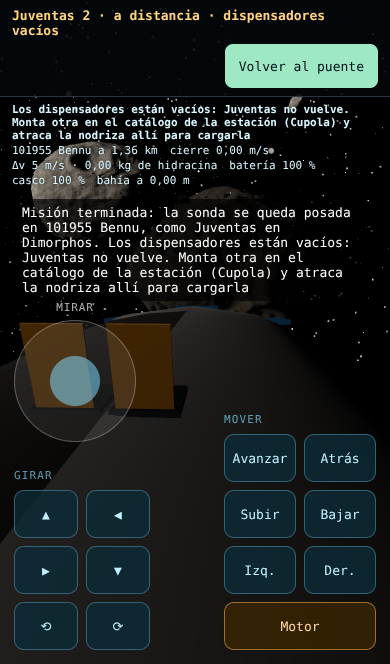
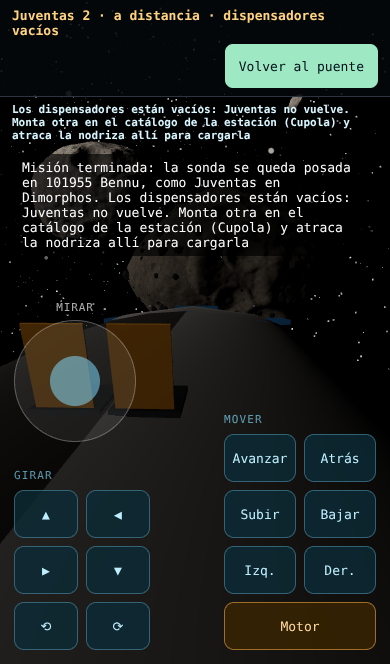
Docs and QA: deployer release, nearby destinations, dock switch, Manual/Automático (SON-08/09, NAV-30/31, VUE-20, HAB-50, PX-41)
Claude-Session: https://claude.ai/code/session_013f2k3BKu3GvWho9ZkdeNDk

Changed region(s): [[0.0308, 0.2108, 0.8923, 0.4518]]

diff --git a/src/probe-mode.ts b/src/probe-mode.ts
@@ -18,6 +18,8 @@ export const EMPTY_DEPLOYERS = "Los dispensadores están vacíos: Juventas no vu
 const fmt = (v: number, d = 2) => v.toFixed(d).replace(".", ",");
 const dist = (m: number) => (m >= 1000 ? `${fmt(m / 1000, 2)} km` : `${fmt(m, m < 10 ? 2 : 0)} m`);
 const WARPS = [1, 10, 100] as const;
+/** Closer than this to its deployer the console's camera looks at the deployer on the hull, m. */
+const DEPLOYER_VIEW_M = 3;
 /** The landing side view keeps the drop from the probe to its site this much smaller than the strip it shows in. */
 const LANDING_VIEW_MARGIN = 1.5;
 
@@ -317,6 +319,21 @@ export class ProbeMode {
     const st = this.lookStick.value;
     this.turn(-curve(st.x) * 2.0 * dt, -curve(st.y) * 1.4 * dt);
     if (this.plan && this.frameLanding(s.position, s.toWorld(Vec3.Y))) {
+      this.render(warp, warpNote);
+      if (performance.now() > this.msgUntil) this.msg.classList.remove("on");
+      return;
+    }
+    // In its deployer and just out of it: a camera over the deployer on the carrier's hull, so the door, the
+    // slide out and the release are seen (Berón: «nunca las veo salir de la nodriza»). The look still orbits it.
+    if (p.status === "estibada" || (p.status === "en-vuelo" && p.bayRange().distanceM < DEPLOYER_VIEW_M)) {
+      const dep = p.deployerPose();
+      const up = dep.toWorld(Vec3.Y);
+      const off = new THREE.Vector3(0.9, 1.6, 1.5).applyEuler(new THREE.Euler(-this.orbit.pitch * 0.5, this.orbit.yaw, 0, "YXZ"));
+      const eye = dep.position.add(dep.toWorld(new Vec3(off.x, off.y, off.z)));
+      const at = dep.position.add(up.scale(0.35));
+      this.camera.position.set(eye.x, eye.y, eye.z);
+      this.camera.up.set(up.x, up.y, up.z);
+      this.camera.lookAt(at.x, at.y, at.z);
       this.render(warp, warpNote);
       if (performance.now() > this.msgUntil) this.msg.classList.remove("on");
       return;

diff --git a/src/modules/subjugation/application/probe-ops.test.ts b/src/modules/subjugation/application/probe-ops.test.ts
@@ -79,7 +79,7 @@ describe("ProbeOps", () => {
     expect(ops.drainEvents().map((e) => e.type)).toEqual(["desplegando", "lanzada", "posada"]);
   });
 
-  it("JUV-01 the deployer releases it at 3 cm/s from the carrier's hull, after its door opens and it slides out", () => {
+  it("SON-08 the deployer releases it at 3 cm/s from the carrier's hull, after its door opens and it slides out", () => {
     const { ops } = setup(400);
     const start = ops.flight.state.position;
     expect(PROBE_TUNING.releaseMs).toBe(0.03);
@@ -92,7 +92,7 @@ describe("ProbeOps", () => {
     expect(ops.drainEvents().map((e) => e.type)).toEqual(["desplegando", "lanzada"]);
   });
 
-  it("JUV-02 a parked probe's mission ends there (it never comes back); the next deployer takes over, and an empty one is refilled only by loading a new one", () => {
+  it("SON-09 a parked probe's mission ends there (it never comes back); the next deployer takes over, and an empty one is refilled only by loading a new one", () => {
     const { ops } = setup();
     release(ops, DOWN);
     fly(ops, 90);

diff --git a/src/modules/lander-cabin/domain/cabin.test.ts b/src/modules/lander-cabin/domain/cabin.test.ts
@@ -53,7 +53,7 @@ describe("lander crew cabin (docs/design/habitaculo.md)", () => {
     expect(ids("asiento", { ...base, dockInRange: true })).toEqual(["pilotar"]);
   });
 
-  it("HAB-32 the commander's station offers Manual and Automático; Automático lists only the nearby destinations", () => {
+  it("HAB-50 the commander's station offers Manual and Automático; Automático lists only the nearby destinations", () => {
     const destinations = [
       { id: "101955-bennu", label: "101955 Bennu", enabled: true },
       { id: "estacion", label: "Estación", enabled: false, why: "Ya estás acoplada a Estación" },

diff --git a/src/modules/subjugation/application/probe-ops.ts b/src/modules/subjugation/application/probe-ops.ts
@@ -161,6 +161,11 @@ export class ProbeOps {
     if (this._status !== "posada") return undefined;
     return (this._flight.target as { data?: { id: string } } | undefined)?.data?.id;
   }
+  /** Pose of the current probe's deployer on the carrier now (+y out of the hull). */
+  deployerPose(): RigidBodyState {
+    return this.bay(this.cur);
+  }
+
   /** Distance and relative speed to the bay. */
   bayRange(): { distanceM: number; speedMs: number } {
     const b = this.bay(this.cur);

diff --git a/docs/qa/casos.md b/docs/qa/casos.md
@@ -64,6 +64,7 @@ Columna QA: cómo se comprueba jugando, o «Solo test» si no tiene sentido hace
 | VUE-09 | El ordenador de descenso posa el módulo en su sitio dentro de los límites; un fallo lo posa fuera del centro, dos rebotan sin daño (se reprograma), tres no cargan; tocar los mandos devuelve el control; la oferta solo aparece en la zona de aproximación (< 450 m) | `landing-program.test.ts` | PX-09: el módulo se posa por programa |
 | VUE-10 | El módulo de aterrizaje es el módulo lunar Apolo: 4280 kg en seco, DPS de 45 kN regulable al 10 %, APS a bordo sin encender, 16 toberas de 440 N en cuatro quads, propelente en un solo depósito (licencia) y adaptador IDSS (licencia); cada número con fuente y etiqueta | `apollo-lm.test.ts` | PX-31 |
 | VUE-11 | El piloto automático vuela el LM con el motor de descenso: gira la panza hacia donde frena y llega al asteroide y al puerto de acople | `autopilot.test.ts`, `dock-trip.test.ts` | PX-31 |
+| VUE-20 | El acople del LM es un interruptor de icono bajo el ojo de la vista de vuelo (Berón, 2026-11-17): sale solo acoplado («Desacoplar», icono de anillos separándose) o libre dentro de la esfera de 200 m de un puerto («Acoplar», icono de anillos juntos: el asistente lo lleva al contacto; «Acoplando: tocar para parar»); el icono es siempre lo contrario del estado. El icono raíz que solo plegaba «Centrar la vista» desaparece (centrar: doble toque en «Mirar» o V) | `main.ts`, `flight-view.ts` (adaptadores) | PX-41 |
 
 ### Navegación, mapa y viajes comprimidos (NAV)
 
@@ -87,18 +88,22 @@ Columna QA: cómo se comprueba jugando, o «Solo test» si no tiene sentido hace
 | NAV-16 | La nodriza también se pilota a mano (reglas.md §3.6): en la tarjeta del destino, junto a «Programar viaje» (retos), «Pilotar a mano»; desde la cubierta de vuelo, encendidos cortos de ±0,1 m/s (hasta 1 m/s) y «Parar», con la distancia que falta, la velocidad y el Δv gastado; parada a menos de 100 m del punto de espera junto a una estación, el ordenador hace el atraque como la Demo-1; lejos de una estación queda aparcada. Los mandos de la Starship van marcados «en desarrollo» (SpaceX no los ha publicado) | `dock-trip.test.ts` | PX-36 |
 | NAV-17 | Los viajes siguen solos y se ven solo en la consola de ese vehículo (reglas.md §3.8): el chip del viaje, «Ver trayecto», «Mando»/«Parar» y el aviso de llegada salen en la cubierta de vuelo (nodriza), la consola de la sonda (sonda) o la cabina del LM (módulo); fuera de ella no salen y el viaje sigue; el aviso que llegó estando fuera se ve al volver. Cerrar «Ver trayecto» devuelve siempre la pantalla y sus botones (no se queda atrapada) | `main.ts`, `navigation.ts`, `probe-mode.ts` (adaptadores) | PX-07, PX-16, PX-36 |
 | NAV-18 | El aterrizaje automático dice adónde va (reglas.md §3.9): al cargar el programa, «baja sola al sitio marcado (el anillo) en X, a N m y unos T… Para posar…»; la ficha del viaje dice «sitio de aterrizaje en X», la distancia al sitio, la altura y el tiempo que falta; la vista lateral del descenso se gira con el palo y arrastrando. El antiguo «Aterrizaje: auto» solo nivelaba la panza: ahora se llama «Nivelar sola» y lo dice | `landing.ts`, `probe-mode.ts` (adaptadores) | PX-07 |
+| NAV-30 | Destinos cercanos (Berón, 2026-11-17: «los viajes largos los hace la nodriza»): el LM y Juventas solo vuelan solos dentro del vecindario de la nodriza (su distancia de aparcamiento más la de entrega, 1,65 km): el asteroide junto al que está aparcada, las estructuras de allí y la propia nodriza; lo demás es un viaje de la nodriza desde su puente | `nearby.test.ts` | PX-41 |
+| NAV-31 | «Automático» del LM: el reto del viaje es el del propio módulo (nunca lo lleva la nodriza); resuelto, se desacopla y su piloto automático lo lleva | `navigator.test.ts` | PX-41 |
 
 ### Sonda (SON)
 
 | ID | Qué tiene que pasar | Test / fixture | QA |
 |---|---|---|---|
 | SON-01 | La sonda es una nave real (~17 kg, Δv de decenas de m/s); sale estibada, se lanza con los muelles y se posa | `probe-ops.test.ts` | Jugar: consola de la sonda en el puente |
-| SON-02 | El brazo solo la agarra lenta y cerca de la bahía; vuelve cargada | `probe-ops.test.ts`, `probe-trip.test.ts` | Jugar: volver a la nodriza |
-| SON-03 | Se pierde por escombros, radiación o batería (~15 h); la siguiente ocupa su sitio; la estación repone el bastidor | `probe-ops.test.ts` | Solo test |
+| SON-02 | El brazo solo la agarra lenta y cerca de la bahía; vuelve cargada (solo la nave de ficción: la Juventas real no vuelve, SON-09) | `probe-ops.test.ts`, `probe-trip.test.ts` | Jugar: volver a la nodriza |
+| SON-03 | Se pierde por escombros, radiación o batería (~15 h); la siguiente ocupa su sitio; la estación repone el bastidor (nave de ficción; en la real, cargando una montada en el catálogo, SON-09) | `probe-ops.test.ts` | Solo test |
 | SON-04 | Viaje largo de la sonda: retos, vuela sola en cámara rápida y espera a ~300 m (posarla es manual); tocar los mandos devuelve el control | `probe-trip.test.ts` | Jugar: Programar viaje a… |
 | SON-05 | La sonda aterriza por programa en Bennu dentro de su sitio de 1,5 m (Juventas no tiene anclas: toca a 2 cm/s, rebota y se asienta), con un fallo también | `landing-program.test.ts` | PX-07 |
 | SON-06 | La sonda es Juventas (ESA, Hera): 12 kg, 6U-XL, ocho propulsores de gas frío de 1 mN y 50 s, ruedas de reacción que no gastan gas, JuRa y GRASS; Δv de unos 5 m/s, así que sus viajes duran horas en cámara rápida | `probe-ops.test.ts`, `probe-trip.test.ts` | PX-07, PX-31 |
 | SON-07 | Sin anclas: Juventas toca a centímetros por segundo, rebota unas veces y se asienta; la pantalla de aterrizaje dice los rebotes | `settling.test.ts` | PX-07 |
+| SON-08 | Juventas sale de verdad de la nodriza: va en un Deep Space Deployer (ISISPACE, como en Hera) bajo la piel del casco de la Starship, encima del puerto del LM; al soltarla se abre la puerta, sale hasta el borde y los muelles la empujan a 3 cm/s; empieza siempre en la nodriza, también después de que la nodriza haya viajado (antes quedaba a 70 m fijos, la bahía de la nave de anillos) | `probe-ops.test.ts`, `probe-trip.test.ts` | PX-41, PX-07 |
+| SON-09 | Juventas no vuelve: su misión acaba posada (como en Dimorphos) con «Terminar su misión»; la siguiente espera en su dispensador; con los dispensadores vacíos la consola y el mando lo dicen y solo se rellenan cargando una Juventas montada en el catálogo de la estación con la Starship atracada allí. «Recuperar con el brazo» y «Programar vuelta» quedan solo en la nave de ficción | `probe-ops.test.ts` | PX-41 |
 
 ### Subyugación en tres fases y duelos (SUB)
 
@@ -338,6 +343,7 @@ Diseño en [habitaculo.md](../design/habitaculo.md).
 | HAB-38 | La bahía enseña la Starship y la estación a escala real, encuadradas por su tamaño; rueda y pellizco acercan y alejan (12 %–250 % de esa distancia); el LM se ve como antes | `ship-bay-scene.ts` (adaptador) | PX-36: capturas 8 y 9 |
 | HAB-39 | Una tarea en otro vehículo nunca hace volar una nave (reglas.md §3.5): «Ir» la lleva andando hasta donde se pilota el vuelo (la mesa de navegación del puente, o el puesto del comandante del LM) y para allí con el aviso «Para «X» primero hay que viajar a la estación: en la mesa de navegación, «Programar viaje» (retos) o «Pilotar a mano»»; ya en ese puesto, solo sale el aviso | `journey.test.ts` | PX-16, PX-36 |
 | HAB-40 | Los ajustes de la esterilla dicen la versión del juego (hash corto del commit y su fecha, de `vite.config.ts`), en el LM, la Starship y la estación; ella está sentada en loto sobre la esterilla (en la Starship y la estación, orientada a su pared, con los pies en los lazos) en la vista panel y en la HUD | `vite.config.ts`, `settings-panel.ts` (adaptadores) | Jugar: recorrido PX `equipos` |
+| HAB-50 | El puesto del comandante del LM y el mando de la sonda ofrecen «Manual» y «Automático» (reglas.md §3.6); «Automático» lista solo los destinos cercanos (NAV-30), cada uno apagado con su porqué si ahora no puede, y abre el reto del viaje | `cabin.test.ts` | PX-41 |
 
 ### Convivencia de procesos (CV)
 
@@ -423,6 +429,7 @@ fila del recorrido en [registro.md](registro.md).
 | PX-37 | `pendientes` | Hallazgos de Berón del 2026-11-17. En el LM, la esterilla abre los ajustes y en vista HUD se ven. En la Starship, el mando «Mirar» gira la cámara y nada lo tapa; en la esterilla de la cubierta 1 los ajustes se ven en vista HUD con ella sentada en loto a la vista; en la cocina, el primer paso de una comida de la ISS se ve con el envase en la mano. En la cubierta de vuelo, el «Mirar» de la sonda gira la cámara alrededor de ella. En la estación, «Mirar» gira la cámara; la esterilla está en Destiny y sus ajustes se ven en HUD con ella sentada. El reto de Planos (pieza impresa) y el duelo de la mente ofrecen «Vista HUD» y «Vista panel». Sin botones solapados. Capturas `docs/screenshots/pendientes-<pantalla>-movil.png` | iPhone 13, CPU ×1 |
 | PX-38 | `equipos` | En el LM, la esterilla abre los ajustes en vista panel y HUD, con ella sentada en loto y la versión. En la Starship, la T2, la CEVIS y el ARED ofrecen cada uno su entrenamiento y, al abrirlo, ella corre, pedalea o hace sentadillas (su propia animación, en marcha). En la esterilla de la cubierta 1, ajustes en las dos vistas sentada sobre ella; el yoga se hace sobre la esterilla. Con 6 medakas y 4 caracoles, el AQH los muestra y limpiar el cristal se ve en él; el AQH de la estación sigue vacío hasta que «Trasladar» (un reto por paso) se los lleva. El simulacro de tormenta solar en el refugio de agua, «Asearse» en el WHC y el chequeo con el CHeCS son retos con cada paso animado. En la estación, lo mismo con sus T2, ARED y CEVIS, su esterilla de Destiny, el AQH de Kibo (la colonia trasladada, sus tareas y su animación), «Asearse» en el WHC de Tranquility, el simulacro en su camarote de Harmony y el desfibrilador del CHeCS de Columbus. Paridad: cada instalación compartida tiene acción en su tarjeta y su modelo real, y los mismos bastidores en las dos. Sin botones solapados. Capturas `docs/screenshots/equipos-*-movil.png` y hojas `equipos-hoja-*.png` | iPhone 13, CPU ×1 |
 | PX-39 | `brazo-eva` | En la ISS, con toques: en la cocina de Unity se pide un Cygnus; tras el tránsito (preparado) espera en el punto de captura. El RWS de la Cupola ofrece capturarlo por reto y a mano. Por reto, en «paso a paso»: al empezar se ven sus manos en los mandos; cada bloque mueve el brazo fuera (o apaga los propulsores) y se audita en vivo: se ve sobre la hoja y nada atraviesa la estación. El Cygnus queda atracado y la despensa sube. Otro Cygnus se captura a mano con el THC (mantener las direcciones) y «Disparar». En el portátil de carga, cambiar las alas planea un paseo. En los trajes de Quest, el reto del EMU (pasos animados) y el ISLE (preparado); despresurizar; salir: solo la escena y el HUD del EMU; avanzar manteniendo pulsado, enganchar el cable en el anclaje de S1, pies en el APFR, el reto del trabajo auditado, volver, entrar, represurizar (preparado) y quitarse el traje. La radiación quema la cámara de P1 (preparado) y Dextre la cambia desde el RWS, auditado. Sin botones solapados. Filas en `docs/qa/animaciones-brazo.md`; capturas `docs/screenshots/brazo-*` | iPhone 13, CPU ×1 |
+| PX-41 | `mandos` | En un iPhone 13: acoplado, bajo el ojo está «Desacoplar» y no hay icono raíz ni «Centrar la vista»; el puesto del comandante ofrece «Manual» y «Automático»; «Automático» lista solo la estación y Bennu (ningún asteroide lejano) y Bennu abre el reto; resuelto, el LM se desacopla y vuela solo. Cerca del puerto el interruptor dice «Acoplar», el asistente lo lleva y el mismo interruptor desacopla. En la cubierta de vuelo, Juventas está bajo la piel del casco (también tras moverse la Starship 4 km), el mando de la sonda ofrece lo mismo, su «Automático» solo Bennu; la puerta del dispensador se abre a ×1 con su aviso, la sonda sale y se suelta a 3 cm/s; posada se termina su misión, sale la siguiente y, vacíos, la consola y el mando lo dicen. Capturas `docs/screenshots/mandos-*-movil.png` | iPhone 13, CPU ×1 |
 | PX-27 | `catalogo` | Partida nueva: ni gatos, ni perros, ni gallinas, ni peces ni caracoles; el estado dice «sin peces (adóptalos en el catálogo)» y no hay tareas de cuidar animales. Tareas → «Catálogo de especies»: más de 50 fichas, cabe a lo ancho; filtro Caracoles con Biomphalaria y nerita. La nerita (sin vuelo, limpiacristales, no cría en agua dulce, Aporta y Precauciones por separado, con fuente) sale «Pendiente: nunca ha vivido en ingravidez» y sin botón; la Biomphalaria (ha volado, esquistosoma, solo líneas de laboratorio) cabe en el hábitat acuático, tipo Aquatic Habitat de JAXA, con su fuente. «Adoptar» Biomphalaria y medaka (filtro por hábitat: medaka y pez cebra, no la tilapia ni el pez ciego): «En camino · 24,8 h». Mascotas: el ratón «Disponible»; gatos y perros «Pendiente». Pasa el viaje: 8 medakas y 4 caracoles en el tanque y en 3D. Dar de comer, amistad con las medakas y con los caracoles: «medakas amigas · caracoles amigos». Junto al terminal, «Catálogo de especies»: los caracoles «A bordo · 4». Un día de a bordo: hambre 2 veces y cada comida medio día; aviso «tiene hambre». Capturas `docs/screenshots/catalogo-*-movil.png`. | iPhone 13, CPU ×4 |
 | PX-28 | `starship` | Partida nueva con el interruptor «solo real»: la nodriza es una Starship sin anillo, animales ni huerto, con metano y oxígeno y ~10 km/s de Δv. Del habitáculo, «Entrar en la nave de viaje» lleva a la cubierta 3 (letrero con la cubierta y 0 g). Tareas → «Ir» a una comida de la ISS: la cocina de la cubierta 1 con su reto; «Ir» a la cinta: la T2 de la cubierta 3. En el terminal del catálogo de la cubierta 2 se adoptan medakas para el hábitat acuático; llegan y se ven en el hábitat de la cubierta 3, que ofrece cuidarlas. Junto a la escotilla del techo de la cubierta 1, «Subir a la cubierta de vuelo» abre el puente; su página de propulsión dice Raptor de vacío y metano y oxígeno; la mesa de navegación programa un viaje que acelera, va por inercia y frena. Con cada reto abierto solo se ve la hoja; en ninguna pantalla aparece el anillo, el huerto, animales ni xenón; sin botones solapados. Capturas `docs/screenshots/starship-*-movil.png`. | iPhone 13, CPU ×1 |
 | PX-29 | `estacion-iss` | La ISS con toques: recorrido por sus escotillas, cada una con «Entrar en <módulo>» (Harmony y sus camarotes, que son cuartos, Destiny y la AMF, Unity, Tranquility y los bastidores de agua, Columbus y la impresora, Kibo, su esclusa a la JEM-EF (escotilla sin menú) y la consola del JEMRMS con el Hangar, Quest y los trajes), una captura por módulo; en Kibo, el hábitat acuático (AQH) y el portátil que abre el catálogo de especies. Dentro de la Bishop, su placa ofrece «Sujetar Juventas»; desde el puesto robótico de la Cupola, «Soltar Juventas»: Juventas queda fuera y la vista de la Cupola enseña el brazo sacando la Bishop y la carga alejándose; la Bishop vuelve. En la Cupola el brazo atraca el módulo en el CBM de Unity y lo devuelve. Cada trabajo del brazo (soltar con la Bishop, atracar, devolver) es un reto del RWS que se juega con el brazo moviéndose fuera (PX-39 audita cada paso). La cocina de Unity hace un plato. Sin botones solapados. Capturas `docs/screenshots/iss-*-movil.png`. | iPhone 13, CPU ×1 |

diff --git a/docs/qa/runs/2026-11-17-1805-PX-41.md b/docs/qa/runs/2026-11-17-1805-PX-41.md
@@ -1,0 +1,69 @@
+# Experiencia del jugador · 2026-11-17 18:05 UTC
+
+- Commit: `59fb110 (con cambios sin commit)` (modulo-sonda-mandos)
+- Entorno: iPhone 13 de Playwright (pantalla 390×844, 390×664 visibles), CPU ×4 (botones: ×1); GPU ANGLE (Google, Vulkan 1.3.0 (SwiftShader Device (Subzero) (0x0000C0DE)), SwiftShader driver); local
+
+| ID | Recorrido | Veredicto | Comprobaciones | Presupuestos |
+|---|---|---|---|---|
+| PX-41 | Mandos del LM y de Juventas en un iPhone 13: en la vista de vuelo, el interruptor de acople bajo el ojo solo en un puerto, con el icono de lo contrario del estado, y ningún icono sin explicar; el puesto del comandante ofrece «Manual» y «Automático», que lista solo destinos cercanos a la nodriza y abre el reto del viaje; en la cubierta de vuelo de la Starship, el mando de la sonda igual; Juventas en su dispensador del casco (también tras viajar la nodriza), la puerta se abre, sale y los muelles la sueltan a 3 cm/s; su misión acaba posada, sin vuelta, y los dispensadores vacíos lo dicen | OK | 29/29 | ✓ |
+
+## PX-41 · Mandos del LM y de Juventas en un iPhone 13: en la vista de vuelo, el interruptor de acople bajo el ojo solo en un puerto, con el icono de lo contrario del estado, y ningún icono sin explicar; el puesto del comandante ofrece «Manual» y «Automático», que lista solo destinos cercanos a la nodriza y abre el reto del viaje; en la cubierta de vuelo de la Starship, el mando de la sonda igual; Juventas en su dispensador del casco (también tras viajar la nodriza), la puerta se abre, sale y los muelles la sueltan a 3 cm/s; su misión acaba posada, sin vuelta, y los dispensadores vacíos lo dicen
+
+- ✓ acoplado, bajo el ojo está el interruptor «Desacoplar» (el icono de lo contrario del estado) — [{"cls":"rm-icon cam-btn","label":"Cámara: Cabina · 1ª persona","y":10},{"cls":"rm-icon dock-btn","label":"Desacoplar de la nodriza","y":62},{"cls":"rm-icon stand-btn","label":"Dejar el puesto: habitáculo","y":114}]
+- ✓ ningún icono sin explicar: la raíz no sale (no queda nada plegado dentro) y no hay «Centrar la vista» — [{"cls":"rm-icon cam-btn","label":"Cámara: Cabina · 1ª persona","y":10},{"cls":"rm-icon dock-btn","label":"Desacoplar de la nodriza","y":62},{"cls":"rm-icon stand-btn","label":"Dejar el puesto: habitáculo","y":114}]
+- ✓ Vista de vuelo acoplada con el interruptor de acople: ningún botón ni rótulo se solapa con otro
+- · (preparación) (preparación) camina hasta «asiento» (la máquina no se ve en pantalla)
+- ✓ el puesto del comandante ofrece «Manual» y «Automático» (sin «Desacoplar»: es el interruptor del vuelo) — [{"id":"pilotar","label":"Manual","on":true},{"id":"automatico","label":"Automático","on":true}]
+- ✓ «Automático» lista solo destinos cercanos a la nodriza (ningún asteroide lejano: esos viajes son de la nodriza) — estacion-polana, 101955-bennu · lejos: 242916, 58587, 265900, 236201, 417464, 2009uf113, 67p, 46p, 133p
+- ✓ Destinos cercanos del «Automático» del LM: ningún botón ni rótulo se solapa con otro
+- ✓ con el reto abierto solo se ven la hoja, la escena y el paso («Programar el viaje a 101955 Bennu»)
+- ✓ Reto del viaje automático del LM: ningún botón ni rótulo se solapa con otro
+- ✓ resuelto el reto, el LM se desacopla y su piloto automático lo lleva (la nodriza no se mueve) — {"status":"autopilot","docked":false,"carrier":false}
+- · (preparación) (preparación) se para el viaje y el LM queda a 60 m del puerto de la Starship, en su eje
+- ✓ libre dentro de la esfera de 200 m del puerto, el interruptor dice «Acoplar» — [{"cls":"rm-icon cam-btn","label":"Cámara: Cabina · 1ª persona","y":10},{"cls":"rm-icon dock-btn","label":"Acoplar","y":62},{"cls":"rm-icon stand-btn","label":"Dejar el puesto: habitáculo","y":114},{"cls":"rm-root","label":"Mandos de vuelo","y":166}]
+- ✓ Interruptor «Acoplar» cerca del puerto: ningún botón ni rótulo se solapa con otro
+- ✓ al tocarlo, el asistente lleva el LM al puerto («Acoplando: tocar para parar»)
+- · (preparación) (preparación) el asistente llega al contacto (minutos de juego)
+- ✓ y vuelve a desacoplar con el mismo interruptor
+- · (preparación) (preparación) vuelve a acoplar en la Starship
+- · (preparación) (preparación) camina hasta «acople» (la máquina no se ve en pantalla)
+- · (preparación) (preparación) sube a la cubierta 1, junto a la escotilla de la cubierta de vuelo
+- ✓ Juventas empieza dentro de su dispensador, bajo la piel del casco de la Starship — {"r":4.4239118436063,"z":-11.000000000000007,"R":4.5,"half":26.05}
+- · (preparación) (preparación) la Starship viaja 4 km (el viaje entero lo juega PX-28)
+- ✓ tras el viaje de la nodriza, la sonda sigue en su dispensador, en la nodriza (no a una distancia fija) — {"r":4.423911843606282,"z":-10.99999999999978,"R":4.5,"half":26.05}
+- · (preparación) (preparación) la Starship vuelve a su sitio junto a Bennu
+- · (preparación) (preparación) camina hasta «sonda» (la máquina no se ve en pantalla)
+- ✓ el mando de la sonda ofrece «Manual» y «Automático» — [{"id":"abrir","label":"Manual","on":true},{"id":"automatico","label":"Automático","on":true}]
+- ✓ solo asteroides cercanos a la nodriza (Juventas no hace viajes largos) — 101955-bennu
+- ✓ Destinos cercanos del «Automático» de la sonda: ningún botón ni rótulo se solapa con otro
+- ✓ con el reto abierto solo se ven la hoja, la escena y el paso («Programar el viaje a 101955 Bennu»)
+- ✓ primero se abre la puerta del dispensador, a ×1 para que se vea, y la consola lo dice — {"deploying":true,"door":0.6209000000000016,"lapse":1,"msg":"Plan cargado: se abre la puerta del dispensador, la sonda sale hasta el borde y los muelles la sueltan; luego la sonda vuela sola hacia 101955 Bennu. Puedes dejar la consola y hacer tareas: sigue sola. Aquí, «Ver trayecto» la enseña en directo y al volver verás si ha llegado"}
+- ✓ La puerta del dispensador abierta y la sonda saliendo: ningún botón ni rótulo se solapa con otro
+- ✓ los muelles la sueltan a unos 3 cm/s y el viaje automático sigue solo — {"status":"en-vuelo","v":0.030000204805620535,"trip":"flying","left":1}
+- ✓ Juventas suelta junto a la Starship: ningún botón ni rótulo se solapa con otro
+- · (preparación) (preparación) se para el viaje y la sonda queda posada sobre el asteroide (posarla la juega PX-07)
+- ✓ posada, la consola ofrece terminar su misión (no hay «Recuperar con el brazo»: Juventas no vuelve) — Nivelar sola: no | Terminar su misión (se queda posada)
+- ✓ la siguiente Juventas espera en su dispensador
+- · (preparación) (preparación) la segunda también termina su misión (soltarla y posarla es lo mismo)
+- ✓ con los dispensadores vacíos la consola lo dice: importar otra del catálogo — {"status":"sin-sonda","tele":"Los dispensadores están vacíos: Juventas no vuelve. Monta otra en el catálogo de la estación (Cupola) y atraca la nodriza allí para cargarla"}
+- ✓ Dispensadores vacíos: ningún botón ni rótulo se solapa con otro
+- · (preparación) (preparación) camina hasta «sonda» (la máquina no se ve en pantalla)
+- ✓ en el mando, «Automático» queda apagado y dice que los dispensadores están vacíos — Los dispensadores están vacíos: Juventas no vuelve. Monta otra en el catálogo de la estación (Cupola) y atraca la nodriza allí para cargarla
+- ✓ ningún error de JavaScript en la página
+
+Problemas de experiencia:
+- Hay que desplazar la pantalla para llegar a «orientar la proa hacia 101955 »: no cabe en 390×664
+
+Rendimiento (GPU: ANGLE (Google, Vulkan 1.3.0 (SwiftShader Device (Subzero) (0x0000C0DE)), SwiftShader driver)): 1086 fotogramas en 188.1 s, mediana 100 ms, 35 tareas largas (la mayor 1674 ms).
+
+| Presupuesto | Valor | Máximo | |
+|---|---|---|---|
+| Carga hasta el primer fotograma | 2317 ms | 8000 ms | ✓ |
+| Fotograma p95 | 549.9 ms | 33 ms | ✗ informativo (GPU por software) |
+| Fotogramas de más de 33 ms | 89.5 % | 10 % | ✗ informativo (GPU por software) |
+| Tareas largas por minuto | 11.2 | 30 | ✓ |
+| Memoria JS | 57.5 MB | 350 MB | ✓ |
+| Llamadas de dibujo por fotograma | 12 | 600 | ✓ |
+| Triángulos por fotograma | 10.4 k | 2000 k | ✓ |
+
+Capturas: mandos-01-mandos-acoplado.png, mandos-02-mandos-automatico-destinos.png, mandos-03-mandos-automatico-reto.png, mandos-04-mandos-acoplar.png, mandos-05-mandos-sonda-destinos.png, mandos-06-mandos-sonda-puerta.png, mandos-07-mandos-sonda-suelta.png, mandos-08-mandos-sonda-vacio.png

diff --git a/docs/design/modulo-lunar-juventas.md b/docs/design/modulo-lunar-juventas.md
@@ -123,8 +123,58 @@ Fuentes:
 - Su Δv es de unos 5 m/s, así que sus viajes duran horas y se juegan en cámara rápida (lapso de 100
   a 400).
 - Su física corre a 12 Hz (`PROBE_STEP_S`), igual de exacta con fuerzas de 1 mN.
-- La nodriza lleva dos, como Hera lleva dos cubesats.
-- La Bishop la guarda y la despliega (`BISHOP_PAYLOADS`).
+- La nodriza lleva dos, como Hera lleva dos cubesats: una en cada dispensador.
+- En la estación, la Bishop guarda la que se monta en el catálogo y la despliega (`BISHOP_PAYLOADS`).
+
+### Cómo sale Juventas, y por qué no vuelve (Berón, 2026-11-17)
+
+Berón: «Parece que las sondas no salen de la nave nodriza, ¿es real? Es raro que estén aisladas ahí… Lancé la
+sonda desde un asteroide y quedó a los mismos km. Nunca las veo salir de la nodriza ni acopladas». Era un fallo:
+la sonda estaba a 70 m fijos de la nodriza, en la bahía de la nave de anillos, que en la Starship cae en el vacío,
+44 m por delante del morro. Así es en la realidad y así queda en el juego:
+
+| Dato | Valor | Etiqueta |
+|---|---|---|
+| Dónde va | en un **Deep Space Deployer** (ISISPACE), uno por CubeSat; en Hera, Juventas y Milani van cada una en el suyo | real ([ISISPACE](https://isispace.nl/isispace-deep-space-deployer-supports-esas-hera-mission-to-observe-dart-impact-and-beyond/)) |
+| Dispensador | 272 × 156,7 × 432,4 mm cerrado; 555 mm de largo abierto; 4,9 kg; 6U-XL de hasta 12,5 kg | real ([ficha](https://isispace.nl/product/deep_space_deployer/)) |
+| Secuencia | se abre la puerta; la CubeSat sale hasta el borde, aún sujeta y con su umbilical; se suelta el umbilical; los muelles la sueltan | real (mismo artículo) |
+| Velocidad de suelta | **3 cm/s** (menos de 5 cm/s para que la gravedad de Didymos la retenga); en órbita baja, ~1 m/s | real |
+| Tiempos | 4 s la puerta y 4 s la salida (las comprobaciones reales duran minutos u horas) | licencia: para verlo |
+| Dónde en la Starship | dos dispensadores bajo la piel del casco de sotavento (+y), sobre el puerto ventral del LM, uno junto al otro | distribución nuestra (no publicada) |
+| Fin de misión | Juventas no vuelve: acaba posada en Dimorphos | real ([web de Hera](https://www.heramission.space/hera-mission-juventas-cubesat)) |
+| En la ISS | los CubeSats salen por la esclusa de Kibo: estuches en el MPEP, la mesa sale, el brazo JEMRMS los lleva al punto de suelta, 45° hacia nadir y atrás, y los muelles los sueltan a 0,77–1,7 m/s (J-SSOD) | real ([JAXA](https://humans-in-space.jaxa.jp/en/biz-lab/experiment/facility/ef/jssod/)) |
+
+En el juego (`ProbeOps`, `data/deployer.ts`, `adapters/three/deployer-model.ts`):
+- La sonda empieza dentro de su dispensador, en la nodriza, esté donde esté: la posición sale del casco real de la
+  Starship (`deployerBody`). Si la nodriza viaja, la sonda viaja dentro.
+- «Soltar del dispensador» (o el «Automático» del mando) abre la puerta, la saca 35 cm y los muelles la sueltan a
+  3 cm/s. La consola mira al dispensador desde el casco mientras sale y en sus primeros metros. Un viaje automático
+  espera a ×1 hasta que está suelta, para que se vea.
+- La puerta queda abierta con el dispensador vacío.
+- Posada, «Terminar su misión» la deja allí (queda apuntada en `ended`) y la siguiente espera en su dispensador.
+- Con los dos vacíos, la consola y el mando lo dicen: hay que montar otra Juventas en el catálogo de la estación;
+  con la Starship atracada en la estación, entra en un dispensador vacío y su puerta se cierra (`VehicleYard.takeAboard`).
+- «Recuperar con el brazo» y «Programar vuelta» solo existen en la nave de ficción (`REAL_ONLY`).
+
+### Mando de la sonda: Manual y Automático
+
+El mando de la sonda en la cubierta de vuelo ofrece **Manual** (su consola, a mano) y **Automático**: la lista de
+asteroides cercanos (ver «Destinos cercanos») y, al elegir uno, el reto del viaje; resuelto, se suelta del
+dispensador y vuela sola hasta 300 m sobre él. Posarla es a mano o con «Aterrizar con un programa»
+([aterrizaje.md](aterrizaje.md)).
+
+### Destinos cercanos
+
+Berón: «solo deben estar disponibles destinos cercanos, ya que la nave nodriza hace los viajes largos». Ni el LM
+ni Juventas hacen crucero propio: el LM solo volaba entre su nave madre y la superficie, y Juventas trabaja en el
+sistema al que la lleva Hera (su enlace con Hera alcanza menos de 60 km). En el juego, cercano es el vecindario
+de la nodriza: su distancia de aparcamiento más la de entrega (1350 + 300 m, la escala de la zona comprimida):
+
+- el asteroide junto al que está aparcada;
+- las estructuras que haya allí (la estación, si está a su lado);
+- y, para el LM, la propia nodriza.
+
+Lo demás es un viaje de la nodriza desde su puente (`navigation/domain/nearby.ts`).
 
 ## Montaje del catálogo
 
@@ -143,6 +193,10 @@ ISS:
 - El brazo rechaza un atraque de más de 116 t.
 
 ## Decisiones abiertas
+
+- ¿La estación debe soltar sus Juventas por la esclusa de Kibo con el JEMRMS (J-SSOD, lo real para CubeSats
+  en la ISS) en vez de la Bishop? Hoy se montan y despliegan en la Bishop, que también es real (NanoRacks).
+- ¿Se dibuja la Juventas que terminó su misión, posada en su asteroide? Hoy solo queda apuntada.
 
 - ~~¿La vista de pilotaje del LM debe ser su cabina real?~~ Sí (Berón, 2026-11-17: «si la cabina realista es
   con ventanas triangulares y tal se debe hacer así»): [cabina-lm.md](cabina-lm.md).

diff --git a/docs/qa/registro.md b/docs/qa/registro.md
@@ -45,6 +45,7 @@ de la nave real es **PX-28** (`starship`); PX-03 y PX-04/05 leen la radio y audi
 | VUE-09 | Solo test | | | Tests citados en casos.md (verdes en la suite completa); sin run log jugado |
 | VUE-10 | Solo test | | | Tests citados en casos.md (verdes en la suite completa); sin run log jugado |
 | VUE-11 | Solo test | | | Tests citados en casos.md (verdes en la suite completa); sin run log jugado |
+| VUE-20 | Sin probar | | | Adaptador; lo juega PX-41 |
 | NAV-01 | Solo test | | | Tests citados en casos.md (verdes en la suite completa); sin run log jugado |
 | NAV-02 | Solo test | | | Tests citados en casos.md (verdes en la suite completa); sin run log jugado |
 | NAV-03 | Solo test | | | Tests citados en casos.md (verdes en la suite completa); sin run log jugado |
@@ -63,6 +64,8 @@ de la nave real es **PX-28** (`starship`); PX-03 y PX-04/05 leen la radio y audi
 | NAV-16 | Solo test | | | `dock-trip.test.ts` (verde en la suite completa); lo juega PX-36 |
 | NAV-17 | Sin probar | | | Adaptador; lo juegan PX-07, PX-16 y PX-36 |
 | NAV-18 | Sin probar | | | Adaptador; lo juega PX-07 |
+| NAV-30 | Solo test | | | `nearby.test.ts` verde; lo juega PX-41 |
+| NAV-31 | Solo test | | | `navigator.test.ts` verde; lo juega PX-41 |
 | SON-01 | Solo test | | | Tests citados en casos.md (verdes en la suite completa); sin run log jugado |
 | SON-02 | Solo test | | | Tests citados en casos.md (verdes en la suite completa); sin run log jugado |
 | SON-03 | Solo test | | | Tests citados en casos.md (verdes en la suite completa); sin run log jugado |
@@ -70,6 +73,8 @@ de la nave real es **PX-28** (`starship`); PX-03 y PX-04/05 leen la radio y audi
 | SON-05 | Solo test | | | Tests citados en casos.md (verdes en la suite completa); sin run log jugado |
 | SON-06 | Solo test | | | Tests citados en casos.md (verdes en la suite completa); sin run log jugado |
 | SON-07 | Solo test | | | Tests citados en casos.md (verdes en la suite completa); sin run log jugado |
+| SON-08 | Solo test | | | `probe-ops.test.ts`, `probe-trip.test.ts` verdes; lo juega PX-41 |
+| SON-09 | Solo test | | | `probe-ops.test.ts` verde; lo juega PX-41 |
 | SUB-01 | Solo test | | | Tests citados en casos.md (verdes en la suite completa); sin run log jugado |
 | SUB-02 | Solo test | | | Tests citados en casos.md (verdes en la suite completa); sin run log jugado |
 | SUB-03 | Solo test | | | Tests citados en casos.md (verdes en la suite completa); sin run log jugado |
@@ -227,6 +232,7 @@ de la nave real es **PX-28** (`starship`); PX-03 y PX-04/05 leen la radio y audi
 | HAB-38 | Sin probar | | | Adaptador; lo juega PX-36 |
 | HAB-39 | Solo test | | | `journey.test.ts` (verde en la suite completa); lo juegan PX-16 y PX-36 |
 | HAB-40 | Sin probar | | | Lo juega PX-38 |
+| HAB-50 | Solo test | | | `cabin.test.ts` verde; lo juega PX-41 |
 | HAB-28 | Solo test | | | `compartments.test.ts`, `starship-interior.test.ts`; jugado en PX-35 |
 | HAB-30 | Probado (en vivo) | 2026-11-17 | `1e45fe6` | [run](runs/2026-11-17-0459-PX-28-PX-31-PX-35-PX-37-PX-20.md): PX-37 OK; `crew-areas.test.ts` |
 | HAB-31 | Probado (en vivo) | 2026-11-17 | `1e45fe6` | [run](runs/2026-11-17-0459-PX-28-PX-31-PX-35-PX-37-PX-20.md): PX-37 OK |
@@ -279,7 +285,9 @@ de la nave real es **PX-28** (`starship`); PX-03 y PX-04/05 leen la radio y audi
 | PX-35 | Probado (en vivo) | 2026-11-17 | `a515faf` | [run](runs/2026-11-17-1334-PX-12-PX-29-PX-31-PX-33-PX-35-PX-30.md): 44 OK |
 | PX-37 | Probado (en vivo) | 2026-11-17 | `30dd266` | [run](runs/2026-11-17-0931-PX-28-PX-35-PX-37-PX-38-PX-20-PX-30.md): 26 OK |
 | PX-39 | Probado (en vivo) | 2026-11-17 | `5c98cd4` | [run](runs/2026-11-17-1352-PX-28-PX-38-PX-39.md): 128 OK |
+| PX-41 | Sin probar | | | |
 | PX-38 | Probado (en vivo) | 2026-11-17 | `5c98cd4` | [run](runs/2026-11-17-1352-PX-28-PX-38-PX-39.md): 77 OK |
+| PX-41 | Probado (en vivo) | 2026-11-17 | `59fb110` | [run](runs/2026-11-17-1805-PX-41.md): 29 OK |
 
 ## Última ejecución por run log
 
@@ -287,6 +295,7 @@ La más reciente arriba.
 
 | Fecha | Casos | Modo | Resultado | Run |
 |---|---|---|---|---|
+| 2026-11-17 18:05 | PX-41 | Experiencia (Playwright) | 1/1 recorridos bien | [run](runs/2026-11-17-1805-PX-41.md) |
 | 2026-11-17 13:52 | PX-28, PX-38, PX-39 | Experiencia (Playwright) | 3/3 recorridos bien | [run](runs/2026-11-17-1352-PX-28-PX-38-PX-39.md) |
 | 2026-11-17 13:46 | PX-20 | Experiencia (Playwright) | 1/1 recorridos bien | [run](runs/2026-11-17-1346-PX-20.md) |
 | 2026-11-17 13:34 | PX-12, PX-29, PX-31, PX-33, PX-35, PX-30 | Experiencia (Playwright) | 6/6 recorridos bien | [run](runs/2026-11-17-1334-PX-12-PX-29-PX-31-PX-33-PX-35-PX-30.md) |

diff --git a/docs/design/cabina-lm.md b/docs/design/cabina-lm.md
@@ -117,6 +117,29 @@ y llena ~30°: la vista es más pequeña, como cualquier otra máquina con la se
 - La etiqueta de la cámara va en la columna de contexto. Antes flotaba bajo el centro y tapaba la ficha del viaje,
   la palanca «Mirar» y los avisos (B-03).
 
+## Mandos: el interruptor de acople y Manual / Automático (Berón, 2026-11-17)
+
+Berón: «Veo el mensaje de que está acoplado y no puede volar; está el botón de vista y abajo un botón que no sé
+para qué es. Si no sirve, pon un botón de icono de acoplar o desacoplar como interruptor, que se muestre al estar
+en la posición y el sitio correctos y que muestre el icono contrario al estado actual».
+
+- El botón que no se entendía era la **raíz** de iconos: acoplado, solo plegaba «Centrar la vista». Se quita ese
+  icono (centrar es un doble toque en «Mirar», o V) y la raíz ya no sale cuando no queda nada dentro.
+- Bajo el ojo va el **interruptor de acople**, siempre con el icono de lo contrario del estado:
+  - acoplado: «Desacoplar», dos anillos separándose; los muelles la separan a 0,08 m/s;
+  - libre dentro de la esfera de 200 m de un puerto: «Acoplar», dos anillos juntos. El asistente lo lleva al
+    contacto («Acoplando: tocar para parar»). Los 200 m son la esfera de exclusión de la ISS, donde solo entra un
+    vehículo en su aproximación final ([NASA, SSC24-P3-06](https://ntrs.nasa.gov/api/citations/20240009200/downloads/SSC24-P3-06.pdf));
+  - en otro sitio no sale. K hace lo mismo con teclado.
+- El aviso de acoplado dice dónde está el interruptor y que la escotilla está detrás del puesto.
+- El **puesto del comandante** ofrece **Manual** (pilotar de pie) y **Automático**. Automático lista los destinos
+  cercanos a la nodriza ([modulo-lunar-juventas.md](modulo-lunar-juventas.md), «Destinos cercanos»): la estación,
+  si está al lado, y el asteroide junto al que está aparcada. El puerto donde ya está acoplado no sale; uno que
+  ahora no se puede sale apagado, con su porqué. Al elegir uno se abre el reto del viaje del propio LM (nunca lo
+  lleva la nodriza); resuelto, se desacopla si hace falta y su piloto automático lo lleva. A un puerto acaba con
+  el asistente de acople; a un asteroide, a 300 m sobre él, para posarlo a mano o por programa.
+- Desacoplar y el asistente ya no están en el puesto: son el interruptor de la vista de vuelo.
+
 ## Juventas no tiene cabina
 
 Juventas es un CubeSat de 12 kg y se pilota a distancia desde su consola en el puente de la nave, con su propia

diff --git a/docs/design/aterrizaje.md b/docs/design/aterrizaje.md
@@ -78,6 +78,14 @@ Regla del diseñador: cada reto debe mostrar el paso correcto ocurriendo. Al ace
 
 Cerrar los retos lo borra; resuelto, el plan sigue 8 s mientras el piloto automático arranca.
 
+## Llegar a la zona: Manual o Automático
+
+Cada vuelo tiene dos modos (reglas.md §3.6). El puesto del comandante del LM y el mando de la sonda ofrecen
+**Manual** y **Automático**; Automático lista solo los destinos cercanos a la nodriza y abre el reto del viaje
+([cabina-lm.md](cabina-lm.md), «Mandos»; [modulo-lunar-juventas.md](modulo-lunar-juventas.md), «Destinos cercanos»).
+El viaje acaba a 300 m sobre el asteroide, en la zona de aterrizaje, y desde ahí sigue lo de esta página. Juventas
+sale antes de su dispensador en el casco de la Starship: la puerta, la salida y los muelles a 3 cm/s.
+
 ## Fuentes
 
 - Módulo lunar Apollo: el indicador de cruz (*cross-pointer*) daba la velocidad hacia delante y lateral en los ejes del propio módulo, y el piloto leía altura y velocidad de bajada por separado; Armstrong posó el Apollo 11 a mano buscando un sitio libre. [Apollo Lunar Surface Journal, aterrizaje del Apollo 11](https://www.hq.nasa.gov/alsj/a11/a11.landing.html), [índice del ALSJ](https://www.hq.nasa.gov/alsj/).
